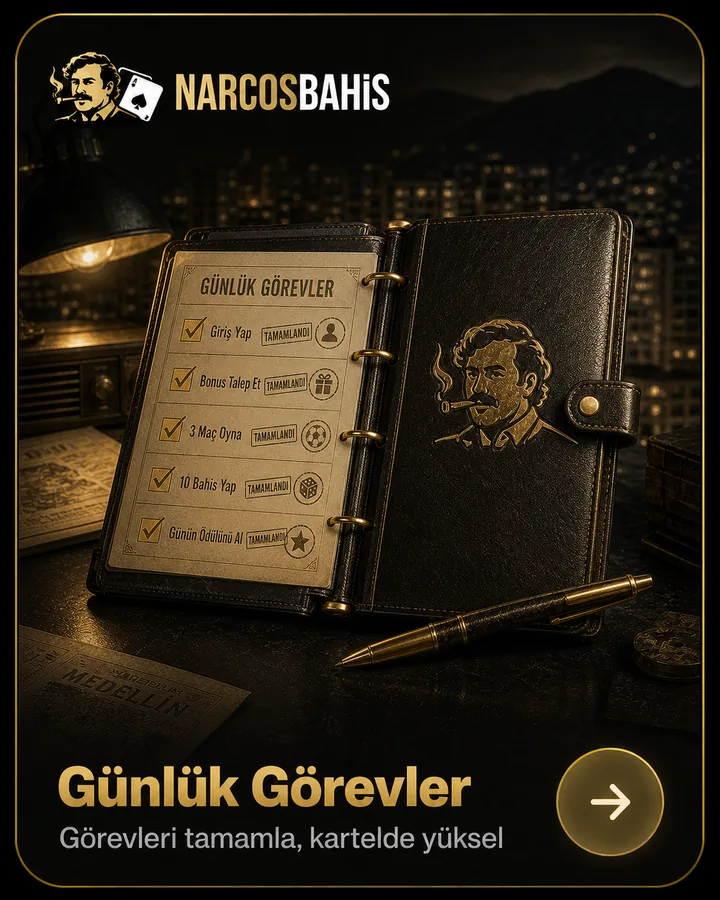
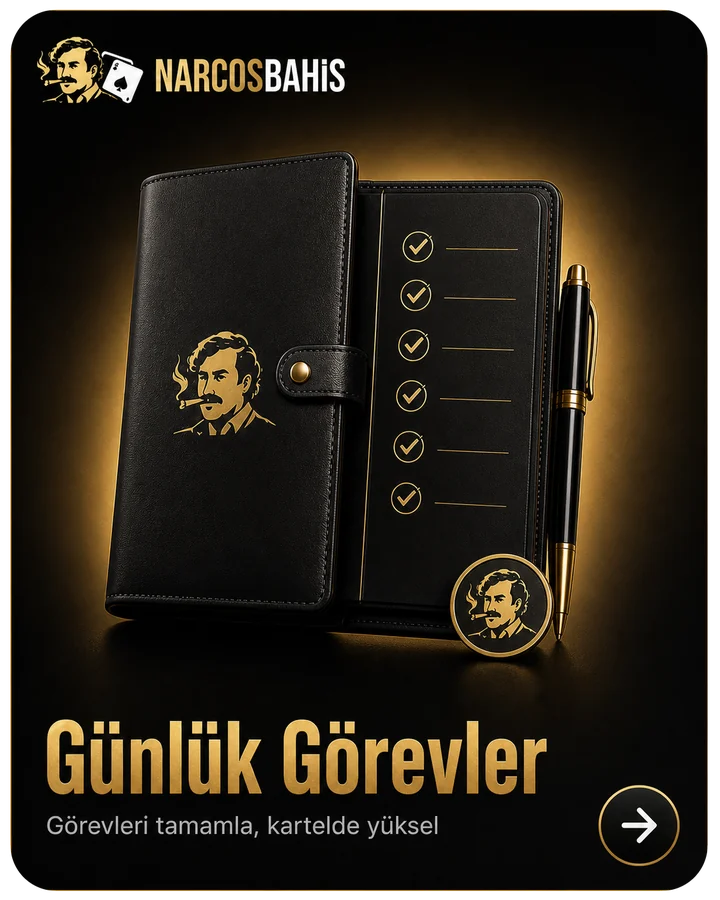
feat(lobi): kart gorselleri v2 setiyle degistirildi, kasa ve ozel oran kartlari eklendi
Yeni tasarim seti (narcosbahis-lobby-cards-v2) uygulandi.

Gorseller
Kaynak PNG'ler 63 MB. Lobi telefonla ve cogu zaman mobil veriyle
aciliyor; bunu her acilista indirtmek sayfayi kullanilamaz yapardi.
Kartlar WebP'ye cevrilip ekranda gorunecek boyuta (2x retina)
indirildi: 1,46 MB.

Olculer repodaki mevcut setle AYNI birakildi (mobil 800x450, dikey
720x900). Yeni kartlar baska bir olcude uretilseydi eskilerin yaninda
farkli netlikte gorunurlerdi. Donusturme betigi kaynak orani hedef
orandan sapiyorsa sessizce esnetmek yerine duruyor.

Tamamen opak gorseller RGB'ye dusuruluyor: gereksiz alfa kanali
tasimanin gorsel bir karsiligi yok, sadece bayt.

Iki YENI kart
Set 13 kart iceriyor; repoda 11 vardi. `patron-kasasi` ve `ozel-oran`
daha once eklenen iki sayfanin (Sans Kasalari, Ozel Oranlar) gorselleri
-- o sayfalar lobide simdiye kadar yedek dosemeyle cikiyordu.

Yolda cikan tutarsizlik
`PlayerLobby`deki YEDEK kisayol listesi geride kalmisti: sunucu
varsayilaninda `kasa` ve `ozel-oran` vardi ama istemcinin yedek
listesinde yoktu. Yapilandirma gelmediginde (ya da `quickAccess` dizi
degilse) iki sayfa lobide hic gorunmuyordu -- yeni gorseller de o yolda
olu kalirdi. Yedek liste sunucuyla esitlendi.

Dogrulama: 26 dosyanin tamami 200 donuyor, sunucudan gelen olculer
beklenenle birebir (800x450 / 720x900, WEBP), lobide 13 kart cikiyor ve
`<picture>` kaynak secimi calisiyor. 198 istemci testi geciyor.

diff --git a/client/src/components/player/LobiKartAkisi.tsx b/client/src/components/player/LobiKartAkisi.tsx
@@ -21,10 +21,14 @@ import { cn } from '@/lib/utils';
  * mobil veride iki kat yük.
  *
  * ── Görseller ─────────────────────────────────────────────────────────
- * Kaynak PNG'ler toplam 55 MB'dı. Lobi telefonla ve çoğu zaman mobil
- * veriyle açılıyor; 55 MB'ı her açılışta indirtmek sayfayı kullanılamaz
+ * Kaynak PNG'ler toplam 63 MB. Lobi telefonla ve çoğu zaman mobil
+ * veriyle açılıyor; bunu her açılışta indirtmek sayfayı kullanılamaz
  * yapardı. WebP'ye çevrilip ekranda görünecek boyuta (2x retina)
- * indirildiler: 1,4 MB. Tasarım korunuyor, baytlar değil.
+ * indirildiler: 1,46 MB. Tasarım korunuyor, baytlar değil.
+ *
+ * Ölçüler set genelinde SABİT (mobil 800x450, dikey 720x900). Yeni
+ * kartlar başka bir ölçüde üretilseydi eskilerin yanında farklı
+ * netlikte görünürlerdi.
  */
 
 /** Kart kimliği → görsel dosya adı. Adlar tasarım paketiyle birebir. */
@@ -40,6 +44,8 @@ const GORSEL_ADI: Record<string, string> = {
   vip: 'vip',
   partner: 'is-birligi',
   'call-me': 'aranma-talep',
+  kasa: 'patron-kasasi',
+  'ozel-oran': 'ozel-oran',
 };
 
 /**
@@ -92,7 +98,7 @@ function Kart({ kart, sira, oneCikan, sadeHareket, vurguRengi, kenarRengi }: Kar
        * Gorunume girince tetiklemek daha sik duruyordu ama bir riski
        * vardi: gozlemci herhangi bir sebeple tetiklenmezse kart
        * `opacity: 0` de KALIYOR -- yani oyuncu bos bir lobi goruyor.
-       * Onbir kartlik kisa bir sayfada kazanc, o riski tasimaya
+       * Bir avuc kartlik kisa bir sayfada kazanc, o riski tasimaya
        * degmiyor. Kartlar yuklenince sirayla beliriyor.
        */
       initial={sadeHareket ? false : { opacity: 0, y: 18 }}

diff --git a/client/src/pages/player/PlayerLobby.tsx b/client/src/pages/player/PlayerLobby.tsx
@@ -121,6 +121,10 @@ type LobbyTheme = {
 const DEFAULT_QUICK_ACCESS_ITEMS: LobbyQuickAccessItem[] = [
   { id: 'bonus', label: 'Bonus Talep', desc: 'Kampanya ve freespin', to: '/bonus-talep', icon: 'gift', accentColor: '#fb7185', enabled: true },
   { id: 'wheel', label: 'Şans Çarkı', desc: 'Çevir, ödül kazan', to: '/cark', icon: 'zap', accentColor: '#eed9a3', enabled: true },
+  // Sunucu varsayilaninda bunlar zaten vardi; buradaki yedek liste geride
+  // kalmisti. Yapilandirma gelmediginde iki sayfa lobide hic gorunmuyordu.
+  { id: 'kasa', label: 'Şans Kasaları', desc: 'Kasayı aç, ödülü al', to: '/kasa', icon: 'package', accentColor: '#eed9a3', enabled: true },
+  { id: 'ozel-oran', label: 'Özel Oranlar', desc: 'Yükseltilmiş oranlar', to: '/ozel-oran', icon: 'trending-up', accentColor: '#e7c574', enabled: true },
   { id: 'scratch', label: 'Kazı Kazan', desc: 'Kartını kazı', to: '/kazi-kazan', icon: 'sparkles', accentColor: '#5fd6a7', enabled: true },
   { id: 'prediction', label: 'Skor Tahmin', desc: 'Maç skoru bil', to: '/skor-tahmin', icon: 'goal', accentColor: '#6ee7b7', enabled: true },
   { id: 'daily-tasks', label: 'Günlük Görevler', desc: 'API ilerleme', to: '/gorevler', icon: 'list-checks', accentColor: '#e7c574', enabled: true },  { id: 'tournament', label: 'Turnuva', desc: 'Sıralamaya gir', to: '/turnuva/gunluk', icon: 'trophy', accentColor: '#d3a952', enabled: true },
